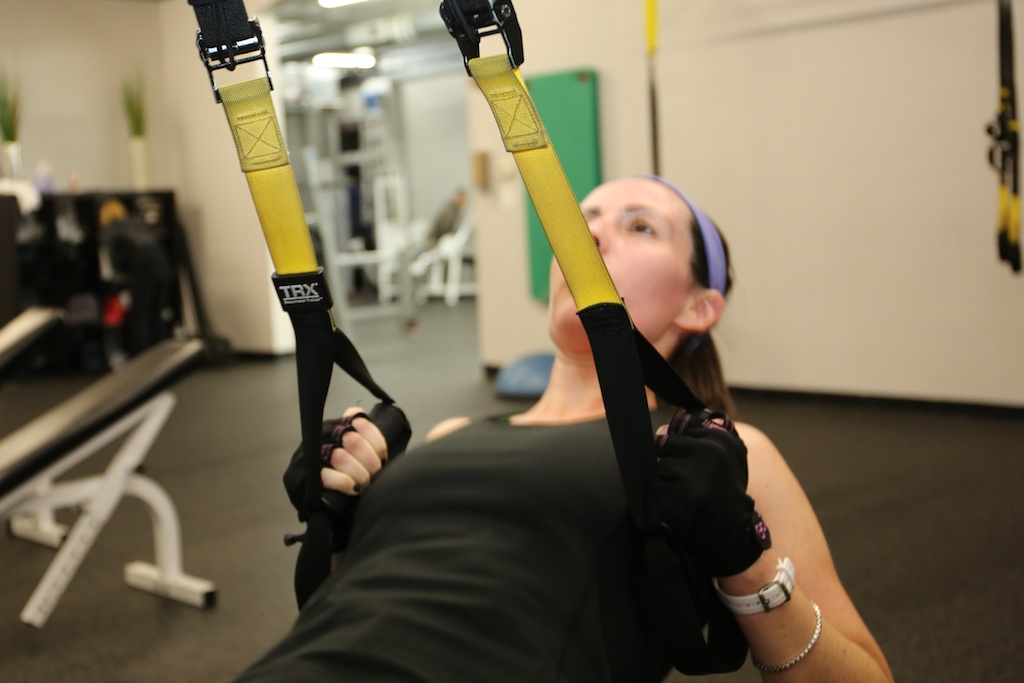
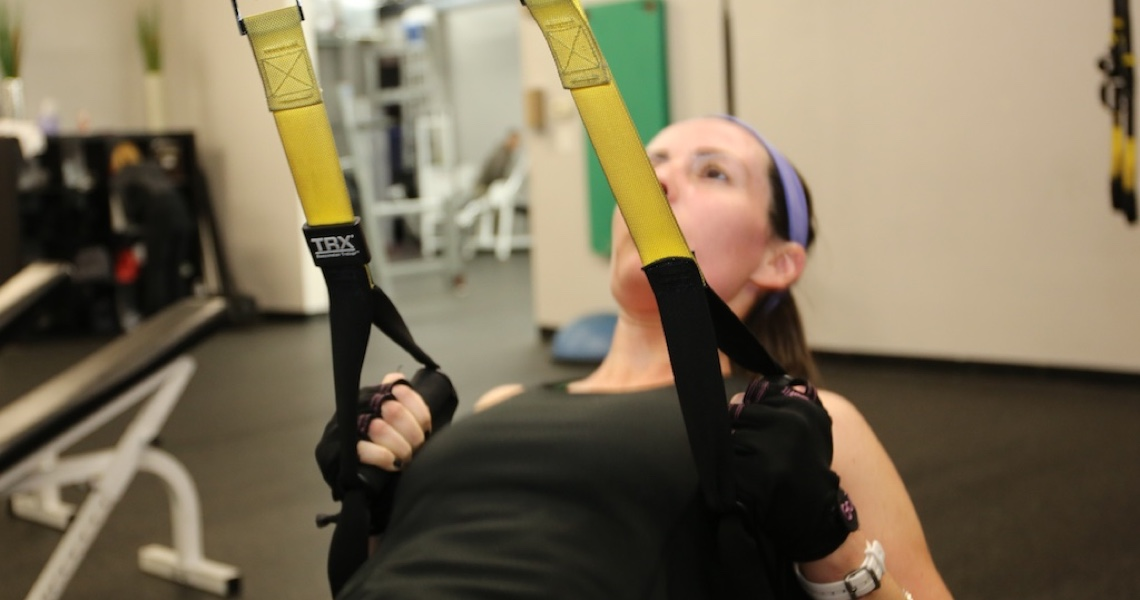
starting to make carousel larger

diff --git a/index.html b/index.html
@@ -7,11 +7,10 @@
     <meta name="description" content="">
     <meta name="viewport" content="width=device-width, initial-scale=1">
 
-    <link rel="stylesheet" href="css/bootstrap.min.css">
-    <link rel="stylesheet" href="css/bootstrap-theme.min.css">
-    <link rel="stylesheet" href="css/main.css">
-
-    <link href='css/font.css' rel='stylesheet' type='text/css'>
+    <link rel="stylesheet" href="css/bootstrap.min.css" type="text/css"/>
+    <link rel="stylesheet" href="css/bootstrap-theme.min.css" type="text/css"/>
+    <link rel="stylesheet" href="css/font.css" type="text/css">
+    <link rel="stylesheet" href="css/main.css" type="text/css"/>
 
     <!--[if lt IE 9]>
         <!--<script src="//html5shiv.googlecode.com/svn/trunk/html5.js"></script>-->
@@ -33,7 +32,7 @@
                 <img src="img/logo-white.png" title="FITNESS 1119" class="img-responsive"/>
             </a>
         </div>
-        <div id="navbar" class="collapse navbar-collapse" style="margin-top:40px">
+        <div id="navbar" class="collapse navbar-collapse">
             <ul class="nav navbar-nav navbar-right">
                 <li><a href="#" class="lead">HOME</a></li>
                 <li><a href="#group" class="lead">GROUP CLASSES</a></li>
@@ -43,29 +42,30 @@
     </div>
 </nav>
 
-<!-- Main jumbotron for a primary marketing message or call to action -->
-<div class="jumbotron">
-    <div class="container">
+<div style="position:relative">
+    <div style="width:1140px;margin-left:auto;margin-right:auto;">
         <div class="jcarousel-wrapper">
             <div class="jcarousel" data-jcarousel="true">
-                <ul style="left: 0px; top: 0px;">
-                    <li><img src="img/slideshow/bootcamp.JPG" width="800" height="600" alt=""></li>
-                    <li><img src="img/slideshow/Cat1.jpg" width="800" height="600" alt=""></li>
-                    <li><img src="img/slideshow/classes.jpg" width="800" height="600" alt=""></li>
-                    <li><img src="img/slideshow/Girls.JPG" width="800" height="600" alt=""></li>
-                    <li><img src="img/slideshow/group%20classes.jpg" width="800" height="600" alt=""></li>
-                    <li><img src="img/slideshow/TRX.jpg" width="800" height="600" alt=""></li>
+                <ul>
+                    <li><img src="img/slideshow/bootcamp.jpg" class="img-responsive" alt=""></li>
+                    <li><img src="img/slideshow/Cat1.jpg" class="img-responsive" alt=""></li>
+                    <li><img src="img/slideshow/classes.jpg" class="img-responsive" alt=""></li>
+                    <li><img src="img/slideshow/Girls.jpg" class="img-responsive" alt=""></li>
+                    <li><img src="img/slideshow/group%20classes.jpg" class="img-responsive" alt=""></li>
+                    <li><img src="img/slideshow/TRX.jpg" class="img-responsive" alt=""></li>
                 </ul>
             </div>
 
-            <a href="#" class="jcarousel-control-prev">&lsaquo;</a>
-            <a href="#" class="jcarousel-control-next">&rsaquo;</a>
+            <a class="jcarousel-prev" href="#"><span class="glyphicons glyphicons-chevron-right"></span></a>
+            <a class="jcarousel-next" href="#"><span class="glyphicons glyphicons-chevron-right"></span></a>
         </div>
     </div>
 </div>
 
+<div style="background-color:#eeeeee;padding-bottom:30px;padding-top:30px;">
+
 <div class="container" style="padding-bottom:30px;">
-    <!-- Example row of columns -->
+
     <div class="row vdivide">
         <div class="col-md-4" style="min-height:320px">
             <h2>LOCATION & CONTACT INFO</h2>
@@ -120,19 +120,25 @@
     </div>
 
 </div>
-
+</div>
 <a name="group"></a>
-<div style="background-color:#eeeeee;padding-bottom:30px;padding-top:30px;">
+<div style="padding-bottom:30px;padding-top:30px;">
     <div class="container">
         <h1>GROUP CLASSES</h1>
-        <p><script type="text/javascript">// <![CDATA[
-        healcode_widget_id = "84136651d4d";
-        healcode_widget_name = "schedules";
-        healcode_widget_type = "mb";
-            document.write(unescape("%3Cscript src='https://www.healcode.com/javascripts/hc_widget.js' type='text/javascript'%3E%3C/script%3E"));
-        // Healcode Schedule Widget for Fitness 1119 : Small Group Training
-        // ]]></script></p>
-        <p><noscript>Please enable Javascript in order to get <a href="https://www.healcode.com" target="_blank">HealCode</a> functionality</noscript></p>
+        <p>
+            <script type="text/javascript">
+                // <![CDATA[
+                healcode_widget_id = "84136651d4d";
+                healcode_widget_name = "schedules";
+                healcode_widget_type = "mb";
+                document.write(unescape("%3Cscript src='https://www.healcode.com/javascripts/hc_widget.js' type='text/javascript'%3E%3C/script%3E"));
+                // Healcode Schedule Widget for Fitness 1119 : Small Group Training
+                // ]]>
+            </script>
+        </p>
+        <p>
+            <noscript>Please enable Javascript in order to get <a href="https://www.healcode.com" target="_blank">HealCode</a> functionality</noscript>
+        </p>
     </div>
 </div>
 
@@ -337,7 +343,6 @@
         <p>&copy; Fitness 1119 2015</p>
     </footer>
 </div>
-<!-- /container -->
 
 <!--<script src="//ajax.googleapis.com/ajax/libs/jquery/1.11.2/jquery.min.js"></script>-->
 <script>window.jQuery || document.write('<script src="js/vendor/jquery-1.11.2.min.js"><\/script>')</script>

diff --git a/css/main.css b/css/main.css
@@ -1,13 +1,20 @@
 body {
     /*padding-top: 120px;*/
     /*padding-bottom: 20px;*/
-
     font-family: 'Titillium Web', sans-serif;
 }
 
 .navbar {
-    height: 120px;
     background-color: #ffffff;
+    margin-bottom: 0;
+}
+
+#navbar {
+    margin-top: 20px;
+}
+
+#navbar ul li a:hover {
+    background-color: transparent;
 }
 
 /*.navbar-brand {*/
@@ -31,70 +38,62 @@ h1, h2, h3, h4, h5, h6 {
     min-height: 70px;
 }
 
-.jcarousel-wrapper {
-    margin: 0 auto;
-    position: relative;
-    width: 800px;
-    height: 600px;
-}
+/* Carousel */
 
-/** Carousel **/
+.jcarousel-wrapper {
+    width: 100%;
+}
 
 .jcarousel {
     position: relative;
+    margin: 0 auto;
+    /*margin-top: 30px;*/
+    /*margin-bottom: 14px;*/
     overflow: hidden;
 }
 
 .jcarousel ul {
-    width: 20000em;
     position: relative;
-    list-style: none;
     margin: 0;
     padding: 0;
+    width: 20000em;
+    list-style: none;
 }
 
-.jcarousel li {
+.jcarousel-prev, .jcarousel-next {
+    position: absolute;
+    margin-top: -82px;
+}
+
+@media (max-width: 768px) {
+    .jcarousel-prev, .jcarousel-next {
+        margin-top: -136px;
+    }
+}
+
+.jcarousel-next {
+    right: 15px;
+}
+
+.jcarousel-prev, .jcarousel-next {
+    vertical-align: top;
+    font-size: 20px;
+    color: #A8A8A8;
+}
+
+.jcarousel-prev:hover, .jcarousel-next:hover {
+    color: #949494;
+}
+
+.jcarousel > ul > li {
     float: left;
 }
 
-/** Carousel Controls **/
-
-.jcarousel-control-prev,
-.jcarousel-control-next {
-    position: absolute;
-    top: 300px;
-    width: 30px;
-    height: 30px;
-    text-align: center;
-    background: #4E443C;
-    color: #fff;
-    text-decoration: none;
-    text-shadow: 0 0 1px #000;
-    font: 24px/27px Arial, sans-serif;
-    -webkit-border-radius: 30px;
-    -moz-border-radius: 30px;
-    border-radius: 30px;
-    -webkit-box-shadow: 0 0 2px #999;
-    -moz-box-shadow: 0 0 2px #999;
-    box-shadow: 0 0 2px #999;
+@media (max-width: 767px) {
+    .jcarousel .wrapper-thumbnail {
+        float: left;
+        margin: auto;
+    }
 }
 
-.jcarousel-control-prev {
-    left: -50px;
-}
-
-.jcarousel-control-next {
-    right: -50px;
-}
-
-.jcarousel-control-prev:hover span,
-.jcarousel-control-next:hover span {
-    display: block;
-}
-
-.jcarousel-control-prev.inactive,
-.jcarousel-control-next.inactive {
-    opacity: .5;
-    cursor: default;
-}
 
